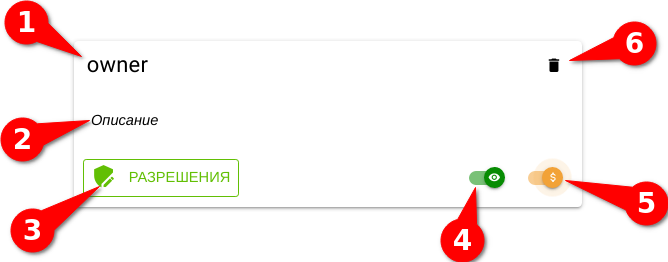
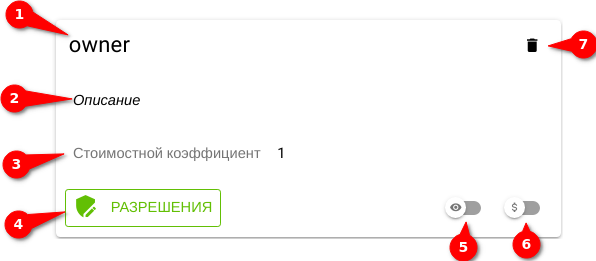
Add pay web access video and update payaccess role creation

Changed region(s): [[0.0, 0.0, 1.0, 1.0], [0.8154, 0.0613, 1.0, 0.2759], [0.453, 0.5517, 0.4832, 0.5824]]

diff --git a/src/.vuepress/config.js b/src/.vuepress/config.js
@@ -86,6 +86,7 @@ module.exports = {
           '/dev/': ['/dev/', '/dev/compute', '/dev/sql', '/dev/docker'],
           '/instructions/': [
             '/instructions/',
+            '/instructions/video',
             '/instructions/workspace',
             '/instructions/project',
             '/instructions/nodes',
@@ -101,7 +102,6 @@ module.exports = {
             '/instructions/docker',
             '/instructions/git',
             '/instructions/payplan',
-            '/instructions/video',
             '/instructions/examples',
           ],
           '/admin/': ['/admin/'],

diff --git a/src/instructions/project.md b/src/instructions/project.md
@@ -76,9 +76,19 @@
 
 ## Открыть возмездный доступ
 
-1. [Создать][5] новую [роль][6] с необходимыми разрешениями.
+1. [Открыть публичный доступ][15] к проекту с минимальными правами.
 
-2. На [плитке][7] роли включить переключатель <span class='iconify-inline' data-icon='mdi:currency-usd'></span> (Платная роль).
+   > Необходимо для демонстрации проекта в общедоступной [галерее][16].
+
+2. [Создать][5] новую [роль][6] с необходимыми разрешениями.
+
+3. На [плитке][7] роли включить переключатель <span class='iconify-inline' data-icon='mdi:currency-usd'></span> (Платная роль).
+
+4. На [плитке][7] роли установить необходимый **Стоимостной коэффициент**.
+
+::: tip <span class='iconify' data-icon='mdi:information' style='color: #42b983; font-size: 24px;'></span>
+С видео примером можно ознакомиться в разделе [видео][17].
+:::
 
 [1]: ./workspace.md#переход-в-рабочее-пространство
 [2]: /docs/desc/workspace.md
@@ -94,3 +104,6 @@
 [12]: ./s3.md#добавление-в-проект
 [13]: #открытие-проекта
 [14]: #создание-нового-проекта
+[15]: #открыть-публичныи-доступ
+[16]: /docs/desc/explorer.md
+[17]: ./video.md

diff --git a/src/desc/project_role.md b/src/desc/project_role.md
@@ -82,9 +82,10 @@
 
 1. Редактируемое название
 2. Редактируемое описание
-3. <span class="iconify-inline" data-icon="mdi:shield-edit"></span> "РАЗРЕШЕНИЯ" - управления [разрешениями](#типы-разрешении)
-4. <span class="iconify-inline" data-icon="mdi:eye"></span> Переключатель общедоступности
-5. <span class="iconify-inline" data-icon="mdi:currency-usd"></span> Переключатель платности
-6. <span class="iconify-inline" data-icon="mdi:delete"></span> Удаление роли
+3. Стоимостной коэффициент - редактируемый коэффициент стоимости
+4. <span class="iconify-inline" data-icon="mdi:shield-edit"></span> "РАЗРЕШЕНИЯ" - управления [разрешениями](#типы-разрешении)
+5. <span class="iconify-inline" data-icon="mdi:eye"></span> - переключатель общедоступности
+6. <span class="iconify-inline" data-icon="mdi:currency-usd"></span> - переключатель платности
+7. <span class="iconify-inline" data-icon="mdi:delete"></span> - кнопка удаления роли
 
 [1]: ./project.md#слои-данных

diff --git a/src/instructions/video.md b/src/instructions/video.md
@@ -15,3 +15,5 @@
 - [Интеграция с GitHUB](https://youtu.be/bnK1qZ-RB1I)
 
 - [Сборка Докер образа](https://youtu.be/2yTzuTUcoss)
+
+- [Возмездный веб доступ к проекту](https://youtu.be/Clvh7MlBrFI)
